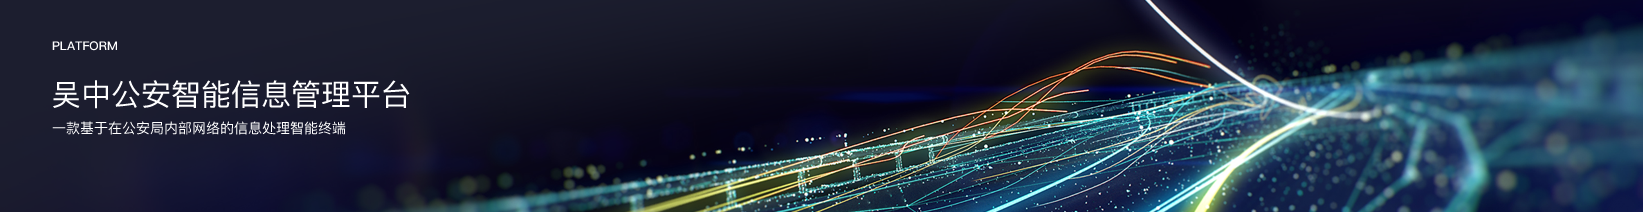
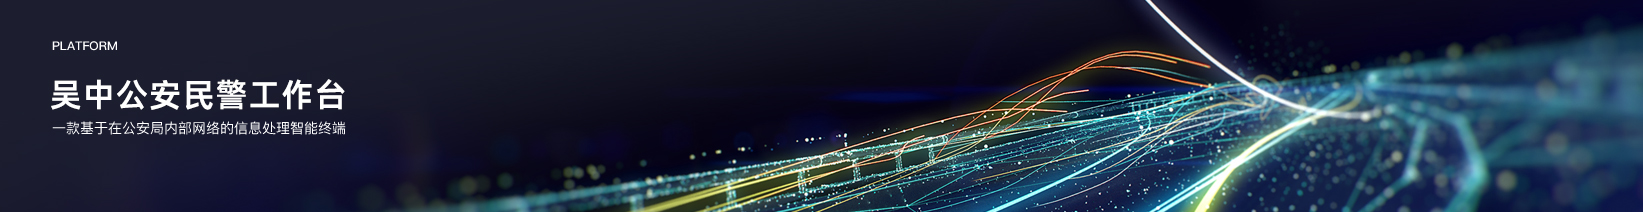
更换标题和图片

Changed region(s): [[0.031, 0.3679, 0.2483, 0.5377]]

diff --git a/src/layouts/MultiLayout.js b/src/layouts/MultiLayout.js
@@ -16,7 +16,7 @@ function MultiLayout(props) {
         <Layout style={{ minHeight: '100vh' }}>
             <Header className="header" >
                 <Avatar className="logo-icon" src={Logo} shape="square" />
-                <span style={{ color: "#fff", fontSize: "16px" }}>苏州吴中公安分局会议系统</span>
+                <span style={{ color: "#fff", fontSize: "16px" }}>吴中公安民警工作台</span>
 
                 <div className="right">
                     <GlobalHeader className="right" user={props.user} />
